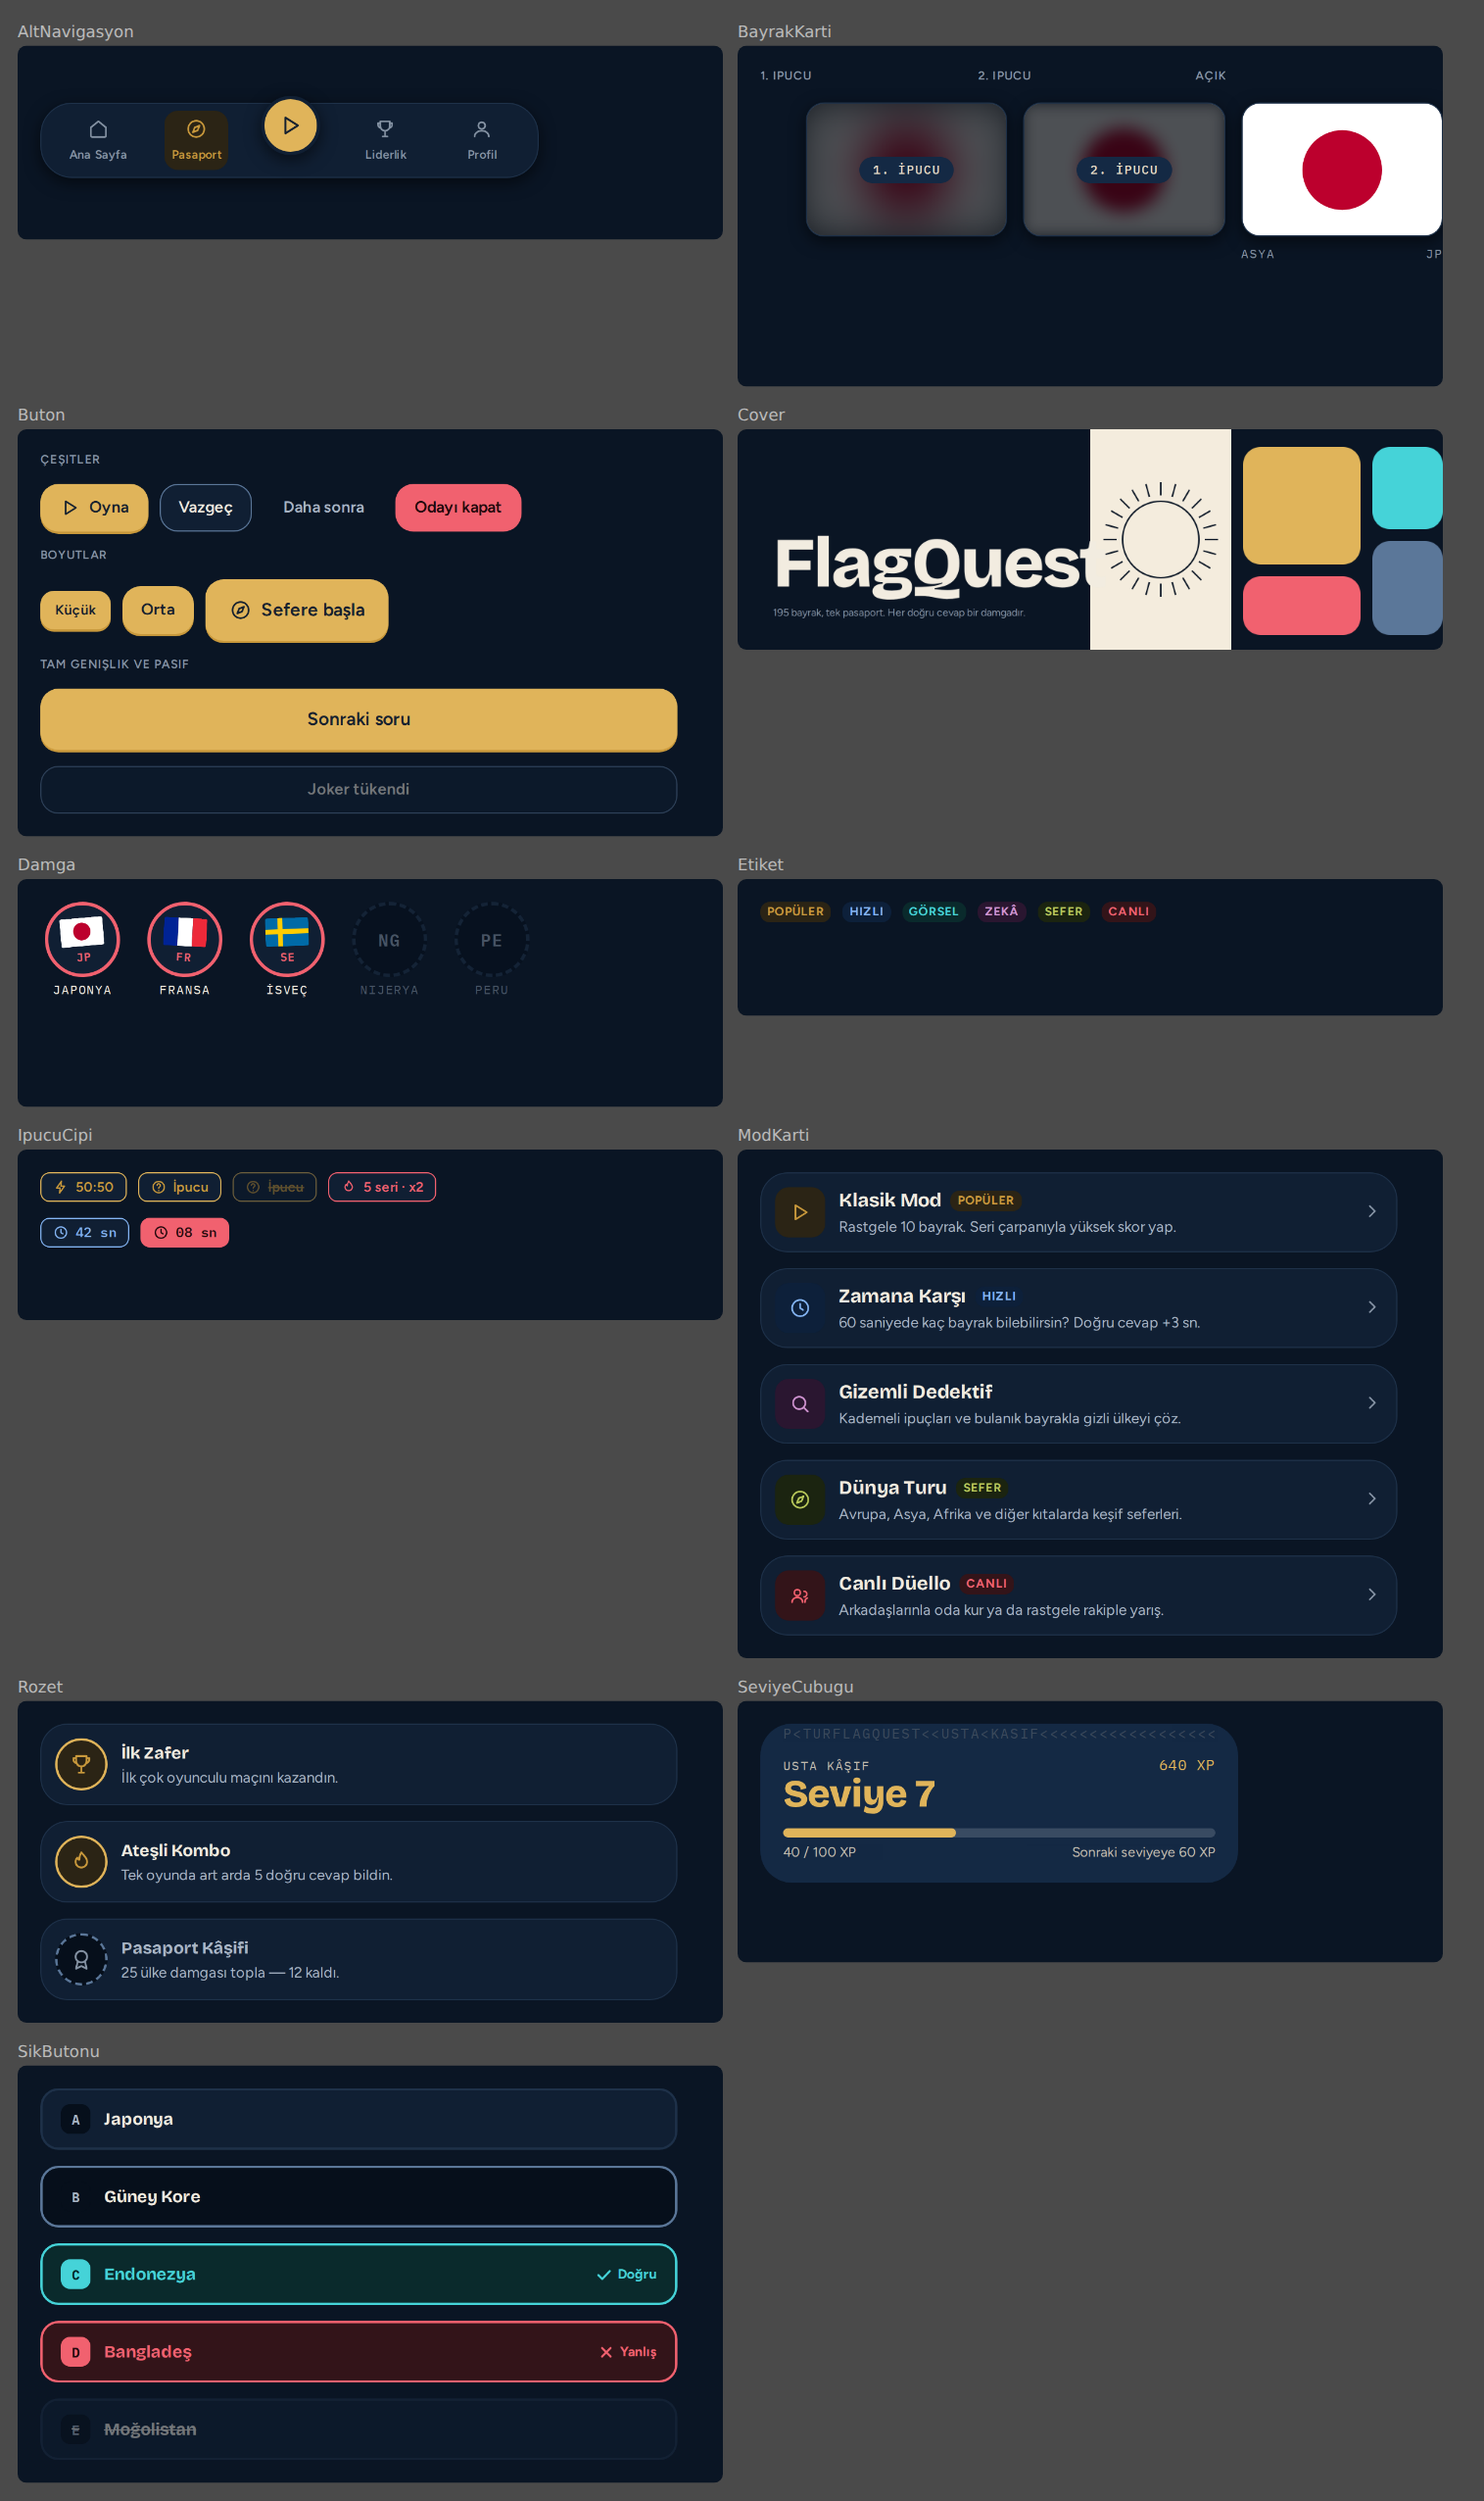
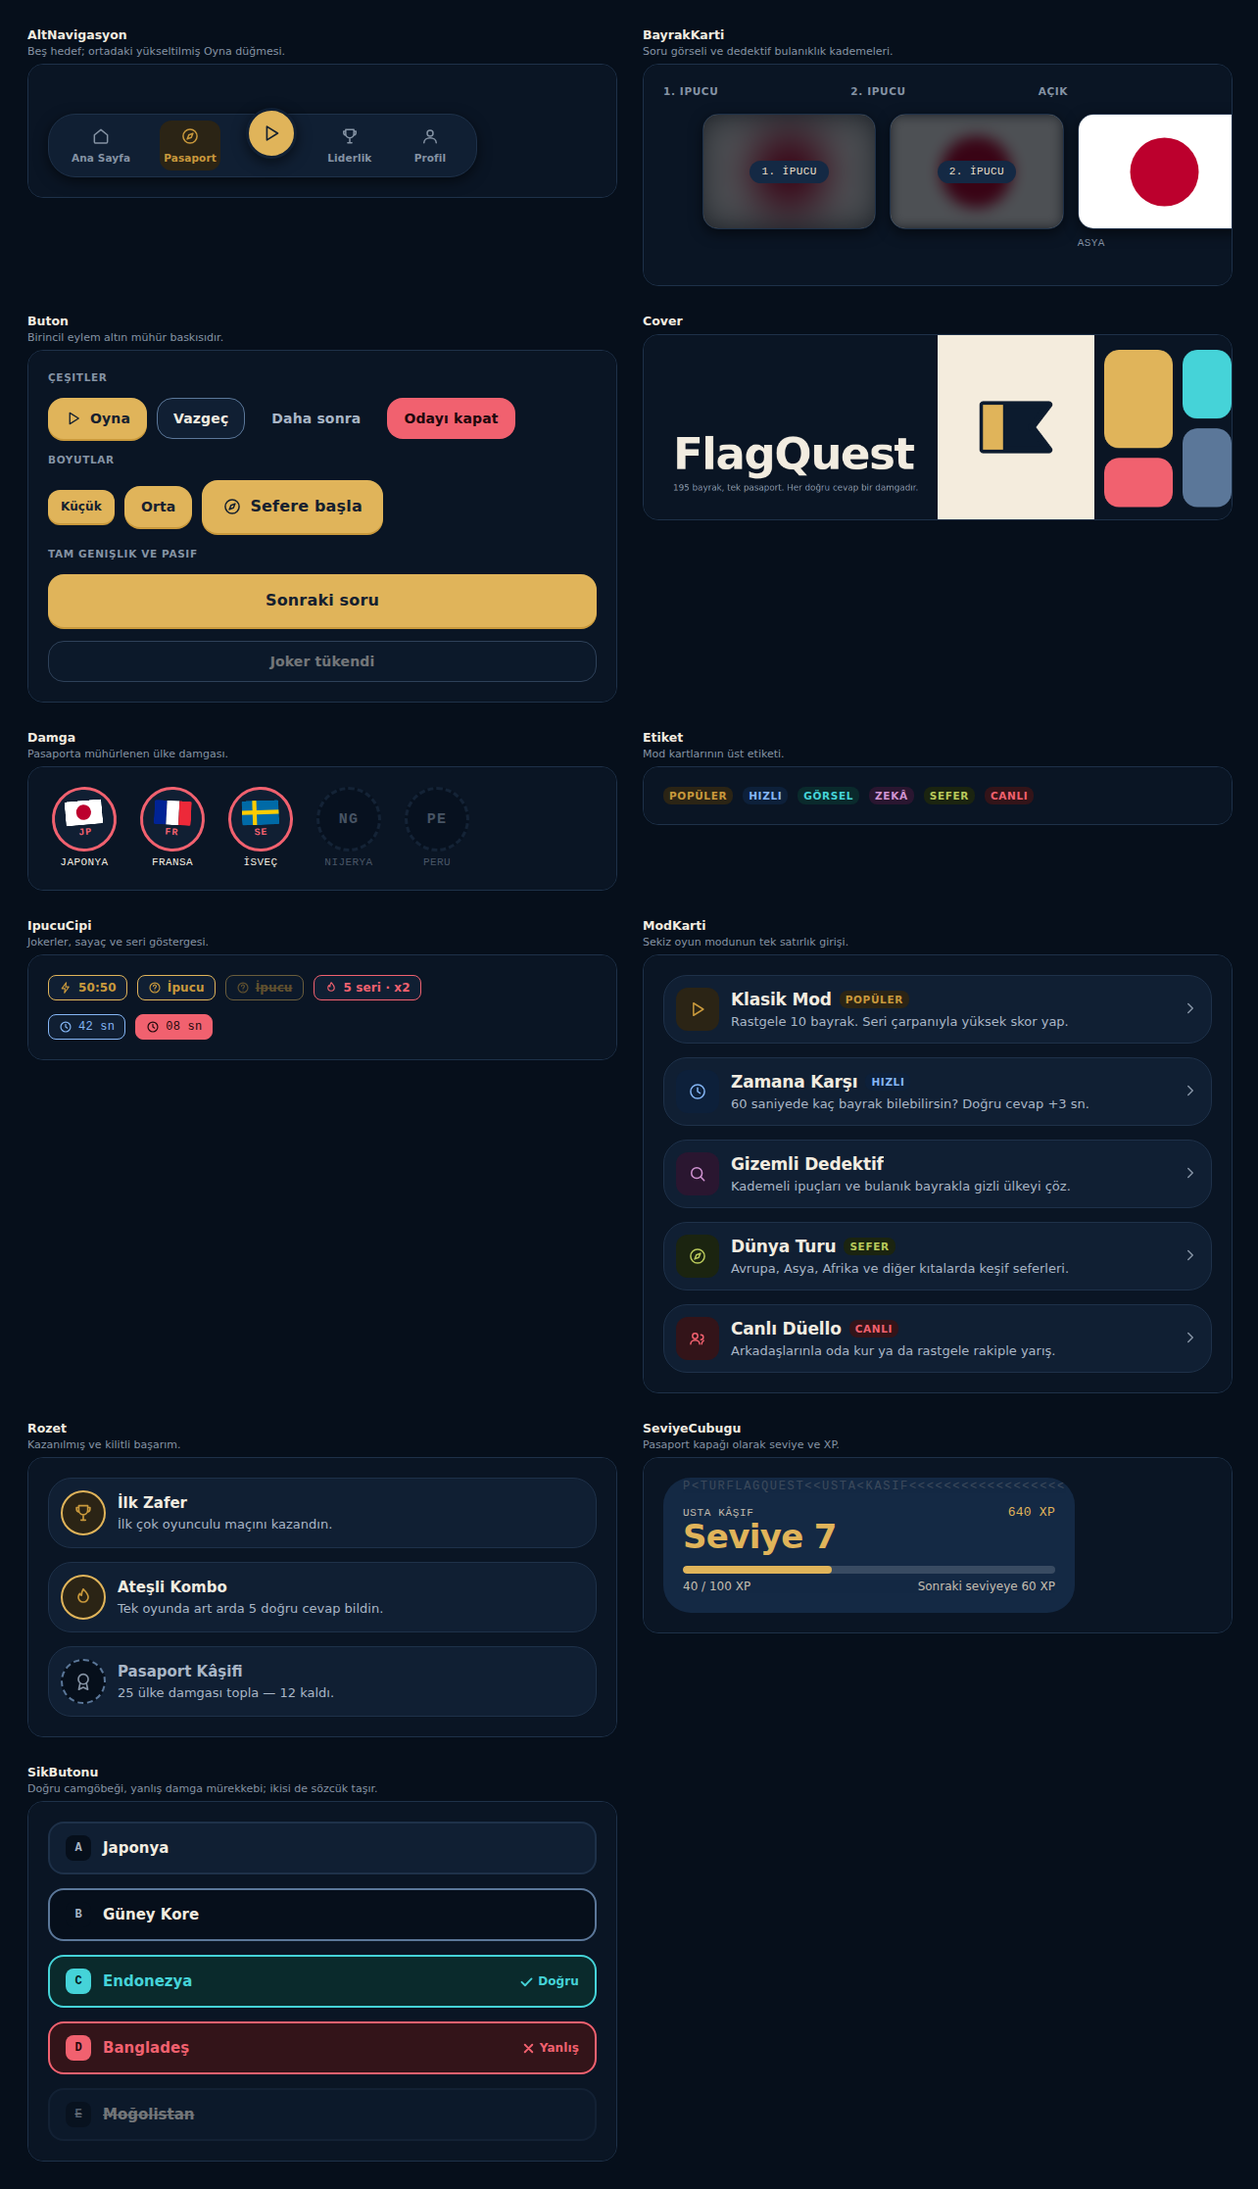
refactor(brand): drop the retired emblem from the design system
Two places still carried the retired v1.0 mark after the logo swap.

The design-system cover (components/Cover/preview.html) drew the old
emblem's serrated ring as its graphic, and its own comment gave the
reason: "aynı çember hem amblemde hem Damga bileşeninde taşınır". That
stopped being true when the pennant replaced the ringed mark, so the
cover now shows the current emblem instead, referenced from
assets/Logo/svg rather than redrawn. The slab it sits on inverts with the
theme, so the light- and dark-background versions are swapped in CSS.

design-system.json still listed the twelve retired logo files. Leaving it
was worse than it looked: its blob ids point at the artifact store, not at
the repo, so restoring the system from this manifest would have brought
the old logos back. The Logo group is removed; the new family lands there
again when the system is next exported.

Regenerating the preview sheets needed a frame the repo did not have — the
component previews expect global React and window.FlagQuest, and npm CDNs
are unreachable from the build environment. scripts/onizleme-uret.mjs now
bundles React out of node_modules with esbuild, drives headless Chromium
over CDP, measures each preview's real content height (scrollHeight clamps
to the viewport, so it reads the body children's bottom edge instead) and
composes the two-column sheet in both themes. All four sheets are
regenerated; nothing is clipped and the serrated ring is gone.
[…]

diff --git a/flagquest-tasarim-sistemi/components/Cover/preview.html b/flagquest-tasarim-sistemi/components/Cover/preview.html
@@ -9,7 +9,10 @@ html,body{margin:0;padding:0;background:var(--zemin)}
 .b-damga{fill:var(--damga-500)}
 .b-vize{fill:var(--vize-500)}
 .b-relief{fill:var(--cizgi-belirgin)}
-.b-desen circle,.b-desen path{stroke:var(--zemin);stroke-width:var(--kenar-kalin);fill:none}
+.kapak-amblem{position:absolute;left:523px;top:65px;width:170px;height:170px;display:block}
+.kapak-amblem--kagit{display:none}
+[data-theme="kagit"] .kapak-amblem--gece{display:none}
+[data-theme="kagit"] .kapak-amblem--kagit{display:block}
 .kapak-yazi{position:absolute;left:48px;bottom:42px;width:440px}
 .kapak-ad{margin:0;font-family:var(--font-baslik);font-size:72px;line-height:.92;font-weight:800;letter-spacing:-.03em;color:var(--metin)}
 .kapak-alt{margin:12px 0 0;font-family:var(--font-govde);font-size:14px;line-height:20px;color:var(--metin-silik)}
@@ -18,19 +21,16 @@ html,body{margin:0;padding:0;background:var(--zemin)}
 <svg class="kapak-svg" viewBox="0 0 960 300" width="960" height="300" aria-hidden="true">
 <!-- Bloklar: zemin-ters 256x300 tam boy dilim, altin-500 112x160, damga-500 112x80, vize-500 80x112, cizgi-belirgin 80x128; koseler yaricap-xl (24px). Kaplama: %43. -->
 <!-- Duzen: tek yuksek dilim + iki uydu sutunu; sutunlar arasi bosluk-4 (16px), sag sutun sag kenara dayanir. -->
-<!-- Desen: cift halka + 24 isinsal tirtil - pasaport giris damgasinin cemberi. Bu sistem kendini "dijital dunya pasaportu" olarak tanimlar ve ayni cember hem amblemde hem Damga bileseninde tasinir; bu yuzden desen odur. -->
+<!-- Kapak grafigi: yururlukteki amblem (Logo Kiti 2.0, Fly yonu) zemin-ters dilimin ustune konur. Amblem yeniden cizilmez, assets/Logo/svg icinden dosya olarak gosterilir; dilim tema ile ters dondugu icin amblemin acik/koyu zemin surumu CSS ile secilir. -->
 <!-- Olcek: kenarlar 80/112/128/160/256/300 = bosluk-4(16) katlari; koseler yaricap-xl; halka cizgi kalinligi kenar-kalin (2px). -->
 <rect x="480" y="0" width="256" height="300" class="b-slab"/>
-<g class="b-desen">
-  <circle cx="608" cy="150" r="100"/>
-  <circle cx="608" cy="150" r="72"/>
-  <path d="M608.0 70.0 L608.0 58.0 M628.7 72.7 L631.8 61.1 M648.0 80.7 L654.0 70.3 M664.6 93.4 L673.1 84.9 M677.3 110.0 L687.7 104.0 M685.3 129.3 L696.9 126.2 M688.0 150.0 L700.0 150.0 M685.3 170.7 L696.9 173.8 M677.3 190.0 L687.7 196.0 M664.6 206.6 L673.1 215.1 M648.0 219.3 L654.0 229.7 M628.7 227.3 L631.8 238.9 M608.0 230.0 L608.0 242.0 M587.3 227.3 L584.2 238.9 M568.0 219.3 L562.0 229.7 M551.4 206.6 L542.9 215.1 M538.7 190.0 L528.3 196.0 M530.7 170.7 L519.1 173.8 M528.0 150.0 L516.0 150.0 M530.7 129.3 L519.1 126.2 M538.7 110.0 L528.3 104.0 M551.4 93.4 L542.9 84.9 M568.0 80.7 L562.0 70.3 M587.3 72.7 L584.2 61.1"/>
-</g>
 <rect x="752" y="24"  width="112" height="160" rx="24" class="b-altin"/>
 <rect x="752" y="200" width="112" height="80"  rx="24" class="b-damga"/>
 <rect x="880" y="24"  width="80"  height="112" rx="24" class="b-vize"/>
 <rect x="880" y="152" width="80"  height="128" rx="24" class="b-relief"/>
 </svg>
+<img class="kapak-amblem kapak-amblem--gece" src="../../assets/Logo/svg/flagquest-fly-amblem-acik.svg" alt="" aria-hidden="true">
+<img class="kapak-amblem kapak-amblem--kagit" src="../../assets/Logo/svg/flagquest-fly-amblem-koyu.svg" alt="" aria-hidden="true">
   <div class="kapak-yazi">
     <p class="kapak-ad">FlagQuest</p>
     <p class="kapak-alt">195 bayrak, tek pasaport. Her doğru cevap bir damgadır.</p>

diff --git a/flagquest-tasarim-sistemi/KURULUM.md b/flagquest-tasarim-sistemi/KURULUM.md
@@ -20,7 +20,7 @@ Marka kitabı `README.md` dosyasındadır; kullanım kurallarının tamamı orad
 | `assets/Logo/` | **Yürürlükteki logo ailesi** — Logo Kiti 2.0, Fly yönü: 12 SVG, 31 PNG, `favicon.ico`. Mürekkep, boyut ve kullanım kuralları `assets/Logo/README.md` dosyasındadır. |
 | `assets/logo-adaylari/` | Logo Kiti 2.0'ın seçilmeyen iki amblem yönü (Damga, Kanton) ve yön seçiminin karar kaydı. Uygulama ve tasarım sistemi bunları kullanmaz. |
 | `onizleme/` | Render edilmiş PNG kontrol sayfaları — iki temada bileşenler, kapak, logo ailesi, boyut testi ve üç amblem yönünün karşılaştırması. |
-| `design-system.json` | Sistem dizini (başlık, kütüphaneler, varlık grupları). Yalnızca tasarım sistemi artifact'ine geri yüklerken gerekir. **Logo listesi 1.0 ailesini yansıtır ve eskimiştir**; `blob` kimlikleri artifact deposuna ait olduğu için elle üretilemez, sistem yeniden dışa aktarıldığında tazelenir. |
+| `design-system.json` | Sistem dizini (başlık, kütüphaneler, varlık grupları). Yalnızca tasarım sistemi artifact'ine geri yüklerken gerekir. Emekli 1.0 logo ailesinin kaydı **kaldırılmıştır**: `blob` kimlikleri artifact deposunu gösterdiği için bırakılsaydı bir geri yükleme eski logoları geri getirirdi. Yeni aile, sistem artifact'e yeniden dışa aktarıldığında buraya kendiliğinden yazılır. |
 
 ## Yazı tipleri
 

diff --git a/CLAUDE.md b/CLAUDE.md
@@ -27,6 +27,7 @@ npm run build        # vite build → dist/ (+ sw.js, manifest.webmanifest)
 npm run preview      # üretim çıktısını yerelde servis eder
 npm run clean        # rm -rf dist server.js
 node scripts/marka-senkron.mjs    # public/ favicon ve PWA ikonlarını logo ailesinden tazeler
+node scripts/onizleme-uret.mjs    # tasarım sistemi önizleme sayfalarını (onizleme/*.png) yeniden üretir
 ```
 
 Test altyapısı, ESLint ve Prettier **yoktur**. Değişiklikten sonra en azından
@@ -81,6 +82,11 @@ kuralın tersidir — eski dosya adlarına bakarak eşleme yapma.
 Kitin seçilmeyen iki yönü (`B-damga`, `C-kanton`) ve yön seçiminin gerekçesi
 `assets/logo-adaylari/` altında karar kaydı olarak durur; uygulama bunları kullanmaz.
 Yön değiştirmek gerekirse izlenecek adımlar o klasörün README'sindedir.
+
+Tasarım sisteminin kapak grafiği (`components/Cover/preview.html`) da yürürlükteki
+amblemi taşır; önizleme sayfaları `scripts/onizleme-uret.mjs` ile yeniden üretilir.
+Betik React'i node_modules'tan paketler (CDN'e çıkmaz), her önizlemeyi gerçek içerik
+yüksekliğinde çeker ve iki temada kontrol sayfası üretir.
 
 ### Bozulmaması gereken kurallar
 
